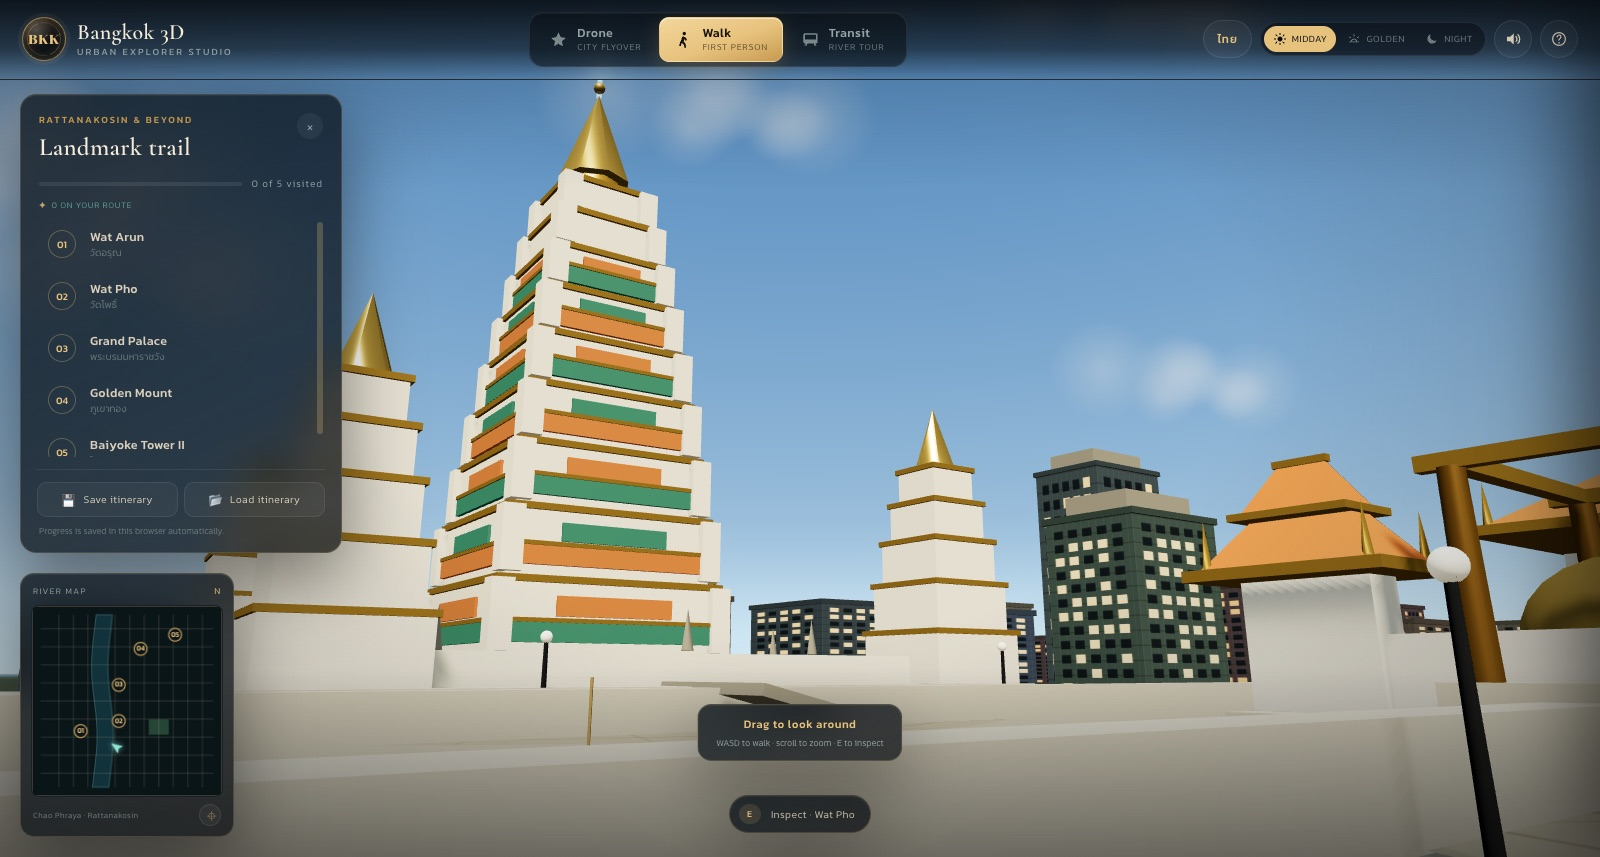
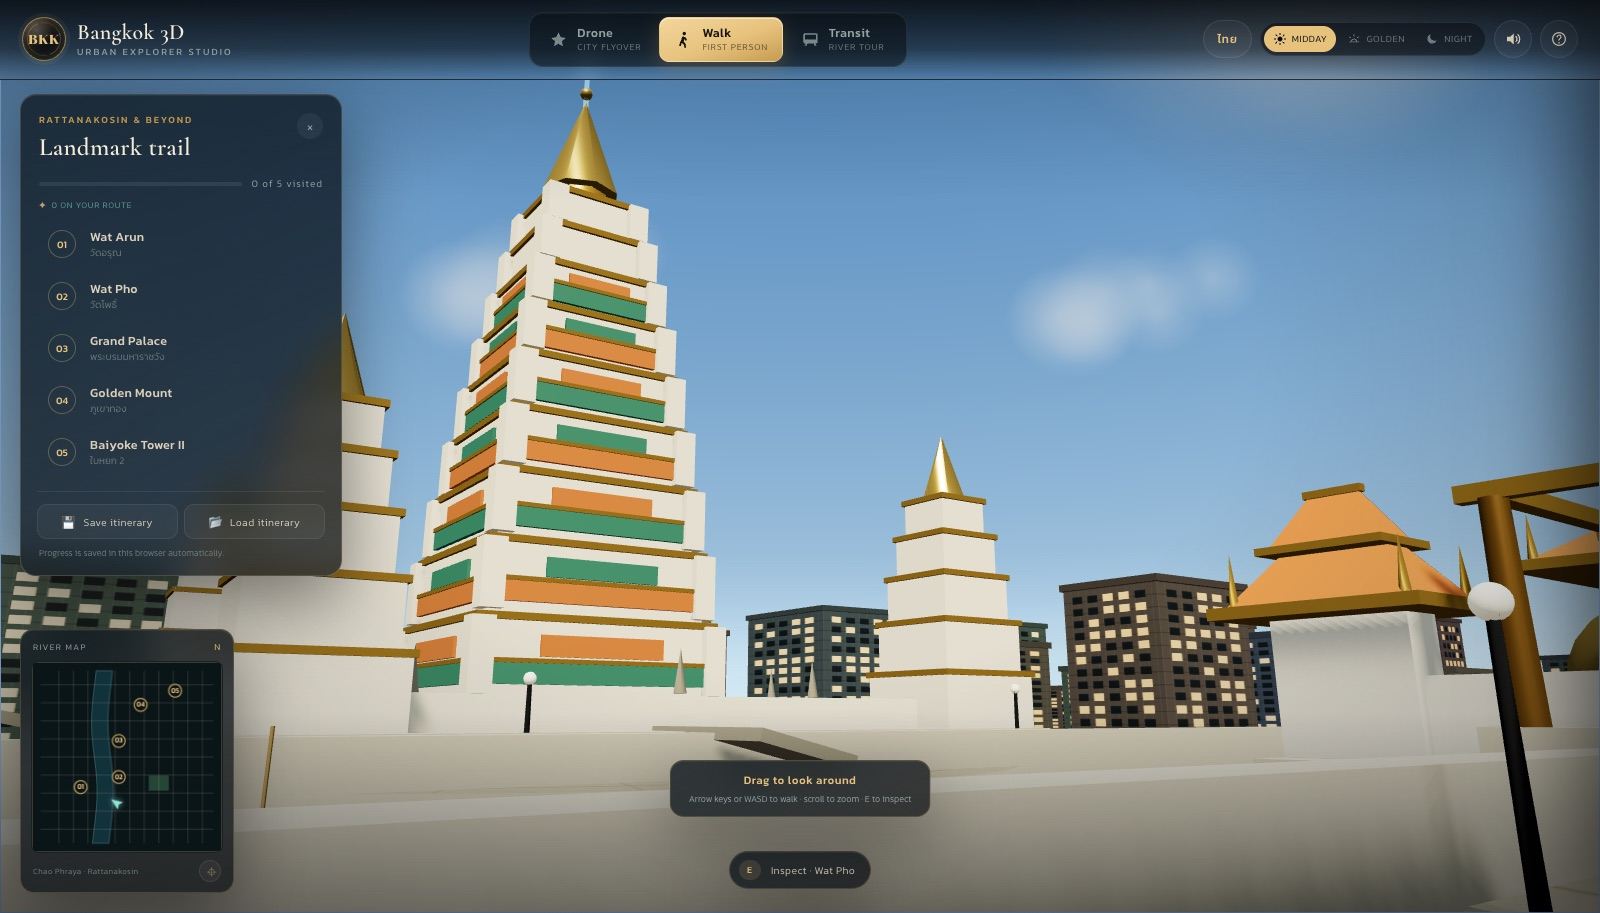
fix: restore walking focus and make arrow keys first-class

diff --git a/script.js b/script.js
@@ -18,7 +18,7 @@
 
   const APP = {
     name: 'Bangkok 3D — Interactive Urban Tourist Guide & Explorer Studio',
-    version: '1.1.1',
+    version: '1.1.2',
     city: 'Bangkok',
     storageKey: 'bangkok3d.state.v1',
     exportName: 'bangkok_3d_tour.json',
@@ -72,7 +72,7 @@
       'map.label': 'Chao Phraya · Rattanakosin',
       'tour.next': 'Next',
       'walk.click': 'Drag to look around',
-      'walk.esc': 'WASD to walk · scroll to zoom · E to inspect',
+      'walk.esc': 'Arrow keys or WASD to walk · scroll to zoom · E to inspect',
       'drawer.visit': 'Visitor notes',
       'drawer.notes': 'Your notes',
       'drawer.notesPh': 'What do you want to remember?',
@@ -107,7 +107,7 @@
       'help.eyebrow': 'Field guide',
       'help.title': 'How to explore',
       'help.modes': 'Modes',
-      'help.modesText': 'Drone orbits the skyline. Walk drops you onto the river promenade with drag-to-look and WASD. Transit follows a spline along the river and stops at each landmark.',
+      'help.modesText': 'Drone orbits the skyline. Walk drops you onto the river promenade with drag-to-look and arrow keys or WASD. Transit follows a spline along the river and stops at each landmark.',
       'help.time': 'Light',
       'help.timeText': 'Midday, golden hour and neon night change the sky, sun, fog, water and every lit window.',
       'help.keys': 'Keys',
@@ -116,8 +116,8 @@
       'help.credit': 'Built with OpenCode and DeepSeek V4.1 Flash. Three.js r128. Geography is compressed and interpretive.',
       'hint.droneKey': 'DRAG',
       'hint.drone': 'Orbit the city · scroll to zoom · right-drag to pan',
-      'hint.walkKey': 'WASD',
-      'hint.walk': 'Drag to look · scroll to zoom · WASD walk · Shift run · E inspect',
+      'hint.walkKey': '↑ ↓ ← →',
+      'hint.walk': 'Drag to look · scroll to zoom · arrow keys or WASD walk · Shift run · E inspect',
       'hint.inspect': 'Inspect · {name}',
       'hint.openGuide': 'Click to open the guide',
       'hint.tourKey': 'TOUR',
@@ -178,7 +178,7 @@
       'map.label': 'เจ้าพระยา · รัตนโกสินทร์',
       'tour.next': 'ถัดไป',
       'walk.click': 'ลากเพื่อหันมอง',
-      'walk.esc': 'WASD เพื่อเดิน · เลื่อนล้อเพื่อซูม · E เพื่อดูข้อมูล',
+      'walk.esc': 'ใช้ลูกศรหรือ WASD เพื่อเดิน · เลื่อนล้อเพื่อซูม · E เพื่อดูข้อมูล',
       'drawer.visit': 'ข้อมูลการเยี่ยมชม',
       'drawer.notes': 'บันทึกของคุณ',
       'drawer.notesPh': 'อยากจำอะไรไว้บ้าง?',
@@ -213,7 +213,7 @@
       'help.eyebrow': 'คู่มือภาคสนาม',
       'help.title': 'วิธีสำรวจเมือง',
       'help.modes': 'โหมดกล้อง',
-      'help.modesText': 'โหมดโดรนหมุนรอบเส้นขอบฟ้า โหมดเดินพาคุณลงสู่ทางเดินริมน้ำ ลากเมาส์เพื่อหันมอง และใช้ WASD เดิน โหมดโดยสารเคลื่อนตามเส้นโค้งริมแม่น้ำและหยุดที่แลนด์มาร์กทุกแห่ง',
+      'help.modesText': 'โหมดโดรนหมุนรอบเส้นขอบฟ้า โหมดเดินพาคุณลงสู่ทางเดินริมน้ำ ลากเมาส์เพื่อหันมอง และใช้ลูกศรหรือ WASD เดิน โหมดโดยสารเคลื่อนตามเส้นโค้งริมแม่น้ำและหยุดที่แลนด์มาร์กทุกแห่ง',
       'help.time': 'แสง',
       'help.timeText': 'กลางวัน แสงทอง และกลางคืนนีออน เปลี่ยนท้องฟ้า ดวงอาทิตย์ หมอก ผิวน้ำ และหน้าต่างที่สว่างทุกบาน',
       'help.keys': 'ปุ่มลัด',
@@ -222,8 +222,8 @@
       'help.credit': 'สร้างด้วย OpenCode และ DeepSeek V4.1 Flash · Three.js r128 · ภูมิศาสตร์ถูกย่อและตีความ',
       'hint.droneKey': 'ลาก',
       'hint.drone': 'หมุนชมเมือง · เลื่อนล้อเพื่อซูม · ลากขวาเพื่อเลื่อนภาพ',
-      'hint.walkKey': 'WASD',
-      'hint.walk': 'ลากเพื่อหันมอง · เลื่อนล้อเพื่อซูม · WASD เพื่อเดิน · Shift เพื่อวิ่ง · E เพื่อดูข้อมูล',
+      'hint.walkKey': '↑ ↓ ← →',
+      'hint.walk': 'ลากเพื่อหันมอง · เลื่อนล้อเพื่อซูม · ใช้ลูกศรหรือ WASD เดิน · Shift เพื่อวิ่ง · E เพื่อดูข้อมูล',
       'hint.inspect': 'ดูข้อมูล · {name}',
       'hint.openGuide': 'คลิกเพื่อเปิดคู่มือ',
       'hint.tourKey': 'ทัวร์',
@@ -2413,6 +2413,16 @@
     }
   }
 
+  function focusScene() {
+    const active = document.activeElement;
+    if (active && active !== document.body && active !== dom.canvas && typeof active.blur === 'function') {
+      active.blur();
+    }
+    if (dom.canvas && dom.canvas.focus) {
+      try { dom.canvas.focus({ preventScroll: true }); } catch (err) { /* older browsers */ }
+    }
+  }
+
   function onWheelZoom(e) {
     if (introVisible || drawerOpen || helpOpen) return;
     if (state.mode !== 'walk' && state.mode !== 'tour') return;
@@ -2477,6 +2487,7 @@
     applyViewFov();
     updateHint();
     updateDrawerButtons();
+    if (!drawerOpen && !helpOpen) focusScene();
     if (!(opts && opts.silent)) {
       if (mode === 'tour') toast(t('toast.tourStart'));
     }
@@ -3197,6 +3208,7 @@
     updateTrailFab();
     if (state.mode === 'walk' && !walkHintDismissed) dom.walkHint.hidden = false;
     if (state.mode === 'tour') updateTourHud();
+    focusScene();
   }
 
   function renderDrawer(l, keepNote) {
@@ -3561,6 +3573,7 @@
     dom.helpModal.hidden = true;
     if (state.mode === 'drone' && !drawerOpen && !tween) orbit.enabled = true;
     if (state.mode === 'tour' && tourResume) { tourState.playing = true; tourResume = false; }
+    focusScene();
   }
 
   function updateTrailFab() {
@@ -3654,6 +3667,7 @@
       if (introVisible || drawerOpen || helpOpen) return;
       if (e.pointerType === 'mouse' && e.button !== 0) return;
       down = { x: e.clientX, y: e.clientY };
+      focusScene();
       if (state.mode === 'walk') {
         const eul = walkEuler.setFromQuaternion(camera.quaternion, 'YXZ');
         walkLook.yaw = eul.y;
@@ -3764,7 +3778,8 @@
 
   function onKeyDown(e) {
     const tag = (e.target && e.target.tagName || '').toLowerCase();
-    if (tag === 'input' || tag === 'textarea' || tag === 'select') return;
+    const editing = tag === 'input' || tag === 'textarea' || tag === 'select';
+    if (editing && (drawerOpen || helpOpen)) return;
     if (e.metaKey || e.ctrlKey || e.altKey) return;
 
     if (e.code === 'Escape') {
@@ -3781,6 +3796,9 @@
       }
       return;
     }
+
+    const walkKeys = ['KeyW', 'KeyA', 'KeyS', 'KeyD', 'ArrowUp', 'ArrowDown', 'ArrowLeft', 'ArrowRight', 'ShiftLeft', 'ShiftRight'];
+    if (state.mode === 'walk' && walkKeys.includes(e.code)) e.preventDefault();
 
     switch (e.code) {
       case 'Digit1': setMode('drone'); break;
@@ -3840,6 +3858,7 @@
     dom.intro.classList.add('is-gone');
     orbit.autoRotate = false;
     if (state.mode === 'drone') orbit.enabled = !drawerOpen && !helpOpen;
+    focusScene();
     setTimeout(() => { dom.intro.style.display = 'none'; }, 900);
   }
 
@@ -4074,6 +4093,15 @@
         zoom: +freeZoom.toFixed(3),
         dragging: walkLook.active,
         pointerLock: false
+      }),
+      getWalk: () => ({
+        mode: state.mode,
+        keys: Object.assign({}, keys),
+        position: camera.position.toArray(),
+        player: playerPos.toArray(),
+        blocked: walkBlocked(camera.position.x, camera.position.z),
+        drawerOpen,
+        helpOpen
       })
     };
 

diff --git a/index.html b/index.html
@@ -29,7 +29,7 @@
 <body class="is-intro">
 <div id="app">
 
-  <canvas id="scene" aria-label="Interactive 3D city of Bangkok"></canvas>
+  <canvas id="scene" tabindex="-1" aria-label="Interactive 3D city of Bangkok"></canvas>
   <div class="atmosphere" aria-hidden="true"></div>
 
   <header class="topbar" id="topbar">
@@ -144,7 +144,7 @@
 
   <div class="walk-hint glass" id="walkHint" hidden>
     <strong data-i18n="walk.click">Drag to look around</strong>
-    <span data-i18n="walk.esc">WASD to walk · scroll to zoom · E to inspect</span>
+    <span data-i18n="walk.esc">Arrow keys or WASD to walk · scroll to zoom · E to inspect</span>
   </div>
   <div class="crosshair" id="crosshair" hidden></div>
 
@@ -239,9 +239,9 @@
       <p class="eyebrow" data-i18n="help.eyebrow">Field guide</p>
       <h2 id="helpTitle" data-i18n="help.title">How to explore</h2>
       <div class="help-grid">
-        <div><h3 data-i18n="help.modes">Modes</h3><p data-i18n="help.modesText">Drone orbits the skyline. Walk drops you onto the river promenade with drag-to-look and WASD. Transit follows a spline along the river and stops at each landmark.</p></div>
+        <div><h3 data-i18n="help.modes">Modes</h3><p data-i18n="help.modesText">Drone orbits the skyline. Walk drops you onto the river promenade with drag-to-look and arrow keys or WASD. Transit follows a spline along the river and stops at each landmark.</p></div>
         <div><h3 data-i18n="help.time">Light</h3><p data-i18n="help.timeText">Midday, golden hour and neon night change the sky, sun, fog, water and every lit window.</p></div>
-        <div><h3 data-i18n="help.keys">Keys</h3><p><kbd>1</kbd><kbd>2</kbd><kbd>3</kbd> modes · <kbd>WASD</kbd> walk · <kbd>Shift</kbd> run · <kbd>E</kbd> inspect · <kbd>Space</kbd> pause tour · <kbd>N</kbd> next stop · <kbd>L</kbd> language · <kbd>T</kbd> time · <kbd>M</kbd> sound · <kbd>H</kbd> help</p></div>
+        <div><h3 data-i18n="help.keys">Keys</h3><p><kbd>1</kbd><kbd>2</kbd><kbd>3</kbd> modes · <kbd>↑</kbd><kbd>←</kbd><kbd>↓</kbd><kbd>→</kbd> / <kbd>WASD</kbd> walk · <kbd>Shift</kbd> run · <kbd>E</kbd> inspect · <kbd>Space</kbd> pause tour · <kbd>N</kbd> next stop · <kbd>L</kbd> language · <kbd>T</kbd> time · <kbd>M</kbd> sound · <kbd>H</kbd> help</p></div>
         <div><h3 data-i18n="help.save">Saving</h3><p data-i18n="help.saveText">Visited stamps, notes and your route live in localStorage. Save Route downloads a portable JSON file; Load Route restores it on another device.</p></div>
       </div>
       <div class="help-credit">

diff --git a/STATE.md b/STATE.md
@@ -3,7 +3,7 @@
 | Field | Value |
 | --- | --- |
 | Project | Bangkok 3D — Interactive Urban Tourist Guide & Explorer Studio (`bangkok-3d-tour-guide`) |
-| Version | **1.1.1** |
+| Version | **1.1.2** |
 | Session started | 2026-11-03 02:46:41 UTC |
 | Build started | 2026-11-03 02:48:24 UTC |
 | Source frozen | 2026-11-03 03:49:43 UTC |
@@ -16,25 +16,25 @@
 | Session | `ses_e60b2c542ffezeHzunC0PwPEEY` |
 | Repository | <https://github.com/somphol/bangkok-3d-tour-guide> |
 | Live demo | <https://somphol.github.io/bangkok-3d-tour-guide/> |
-| Release | [v1.1.1](https://github.com/somphol/bangkok-3d-tour-guide/releases/tag/v1.1.1) · previous [v1.1.0](https://github.com/somphol/bangkok-3d-tour-guide/releases/tag/v1.1.0) |
+| Release | [v1.1.2](https://github.com/somphol/bangkok-3d-tour-guide/releases/tag/v1.1.2) · previous [v1.1.1](https://github.com/somphol/bangkok-3d-tour-guide/releases/tag/v1.1.1) |
 | Self-test | **24 / 24 PASS** (local and live, zero runtime errors) |
 
 ## Token usage
 
 | Metric | Tokens |
 | --- | ---: |
-| Input | 693,099 |
-| Output | 201,320 |
-| Reasoning | 188,464 |
-| **Total (input + output + reasoning)** | **1,082,883** |
-| Cache read | 116,010,624 |
+| Input | 727,367 |
+| Output | 214,333 |
+| Reasoning | 200,066 |
+| **Total (input + output + reasoning)** | **1,141,766** |
+| Cache read | 129,434,112 |
 | Cache write | 1,230 |
-| Total including cache | 117,094,737 |
+| Total including cache | 130,577,108 |
 
-> Snapshot from the OpenCode session record at 2026-11-03T04:38:19Z, after the 1.1.1 drag-direction patch and
-> local verification. Total cost reported by the session: **$0.00**. The final commit, Pages rebuild
-> and closing response add a small amount more. Cache reads/writes are context-usage figures and are
-> reported separately from the input/output/reasoning total.
+> Snapshot from the OpenCode session record at 2026-11-03T04:49:44Z, after the 1.1.2 walking-focus and arrow-key
+> release. Total cost reported by the session: **$0.00**. The final commit, Pages rebuild and closing
+> response add a small amount more. Cache reads/writes are context-usage figures and are reported
+> separately from the input/output/reasoning total.
 
 ## What was built
 
@@ -157,6 +157,8 @@ r128 OrbitControls example. Walk look is implemented in-house. Fonts: Chonburi, 
   above.
 - **Patch 1.1.1:** horizontal walk drag is inverted to a grab-the-landscape feel; drag left brings the
   right side of the scene into view. Vertical look and zoom are unchanged.
+- **Patch 1.1.2:** walking focus restored after using the guide/notes; arrow keys now prevent page
+  scrolling and are documented alongside WASD.
 
 ## Post-freeze work
 

diff --git a/README.md b/README.md
@@ -1,7 +1,7 @@
 # Bangkok 3D — Interactive Urban Tourist Guide & Explorer Studio
 
 [![Live demo](https://img.shields.io/badge/live-demo-e7c27d)](https://somphol.github.io/bangkok-3d-tour-guide/)
-[![Release](https://img.shields.io/badge/release-v1.1.1-6cbcac)](CHANGELOG.md)
+[![Release](https://img.shields.io/badge/release-v1.1.2-6cbcac)](CHANGELOG.md)
 [![License: MIT](https://img.shields.io/badge/license-MIT-brightgreen)](LICENSE)
 [![No build](https://img.shields.io/badge/build-none-lightgrey)](docs/ARCHITECTURE.md)
 
@@ -34,8 +34,9 @@ visited, added to a custom route, and annotated with private notes.
 
 - **Drone city flyover** — OrbitControls: drag to rotate, wheel to zoom, right-drag to pan. A cinematic
   orbit plays behind the title screen. Each landmark has a “Fly here” camera move.
-- **First-person street walk** — drag anywhere on the scene to look around, then WASD / arrows to
-  walk, Shift to run, scroll to zoom, `E` to inspect the nearest landmark. There is no pointer lock:
+- **First-person street walk** — drag anywhere on the scene to look around, then walk with the
+  **arrow keys** (`↑ ↓ ← →`) or `WASD`. Shift runs, scroll zooms, and `E` inspects the nearest
+  landmark. There is no pointer lock:
   the cursor stays yours. Movement is blocked by buildings, trees, temple bases and the riverbank.
   Footsteps follow walking speed.
 - **Automated transit tour** — a Catmull-Rom river-and-city route with five dwell stops. Pause with
@@ -111,7 +112,7 @@ Current result: **24 / 24**.
 | --- | --- |
 | `1` / `2` / `3` | Drone / Walk / Transit |
 | Drag, wheel, right-drag | Orbit, zoom, pan (drone) |
-| `WASD` / arrows | Walk |
+| Arrow keys (`↑ ↓ ← →`) or `WASD` | Walk |
 | `Shift` | Run |
 | Drag on the scene | Look around |
 | Scroll | Zoom (walk/tour field of view) |
@@ -188,9 +189,9 @@ north–south near `x = -26`. Geography is compressed and interpretive.
 
 ## Status
 
-Version **1.1.0**. The latest release adds normal drag-to-look walking, scroll-wheel zoom and the
-documentation set above. Runtime dependencies are pinned CDN files; there is no package manager and
-no build artifact. The deployed copy and the repository are the same static source.
+Version **1.1.2**. Walk with the arrow keys or WASD. This patch restores reliable walking after using
+the guide and fixes focus handling. Runtime dependencies are pinned CDN files; there is no package
+manager and no build artifact. The deployed copy and the repository are the same static source.
 
 ## Credits
 

diff --git a/docs/CONTROLS.md b/docs/CONTROLS.md
@@ -8,7 +8,7 @@ interface at all times.
 | Mode | Shortcut | How the camera moves |
 | --- | --- | --- |
 | Drone flyover | `1` | Orbit drag, wheel zoom, right-drag pan |
-| Street walk | `2` | Drag to look, WASD/arrows to walk, wheel to zoom |
+| Street walk | `2` | Drag to look, arrow keys or WASD to walk, wheel to zoom |
 | Transit tour | `3` | Automated spline; wheel changes field of view |
 
 ## Drone mode
@@ -34,7 +34,7 @@ Walk mode uses ordinary **drag-to-look**. There is no pointer capture.
 | Input | Action |
 | --- | --- |
 | Left-drag on the scene | Look around; the cursor remains visible |
-| `WASD` or arrow keys | Walk forward/back and strafe |
+| `↑` `↓` `←` `→` or `W` `A` `S` `D` | Walk forward/back and strafe |
 | `Shift` | Run |
 | Scroll wheel | Zoom in/out by changing the field of view |
 | `E` | Open the nearest landmark within 30 units |
@@ -42,7 +42,7 @@ Walk mode uses ordinary **drag-to-look**. There is no pointer capture.
 | Click the guide/list | Open the visitor drawer |
 | `2` again | Re-enter walk mode at the saved position |
 
-Walking is blocked by buildings, trees, temple bases and the riverbank. The walkable area is the east
+Arrow keys are the simplest option if you do not use WASD. Both are supported. Walking is blocked by buildings, trees, temple bases and the riverbank. The walkable area is the east
 bank; there is no bridge walking in this release. The look hint appears on entry, dismisses on the first
 drag, and auto-hides after seven seconds.
 

diff --git a/CHANGELOG.md b/CHANGELOG.md
@@ -4,6 +4,22 @@ All notable changes to **Bangkok 3D — Interactive Urban Tourist Guide & Explor
 documented here. The format follows [Keep a Changelog](https://keepachangelog.com/en/1.1.0/) and the
 project uses [Semantic Versioning](https://semver.org/spec/v2.0.0.html).
 
+## [1.1.2] — 2026-11-03
+
+### Fixed
+
+- Restored reliable walking after interacting with the guide drawer or notes field. Focus returns to the
+  scene, and a hidden textarea can no longer swallow walk keys.
+- Arrow keys now prevent the page from scrolling while walk mode is active.
+- Movement keys are focused on the scene after switching modes and closing overlays.
+
+### Changed
+
+- Walk hints and documentation now present **arrow keys** and WASD as equal options:
+  `↑ ↓ ← →` / `W A S D`.
+
+[1.1.2]: https://github.com/somphol/bangkok-3d-tour-guide/compare/v1.1.1...v1.1.2
+
 ## [1.1.1] — 2026-11-03
 
 ### Fixed
